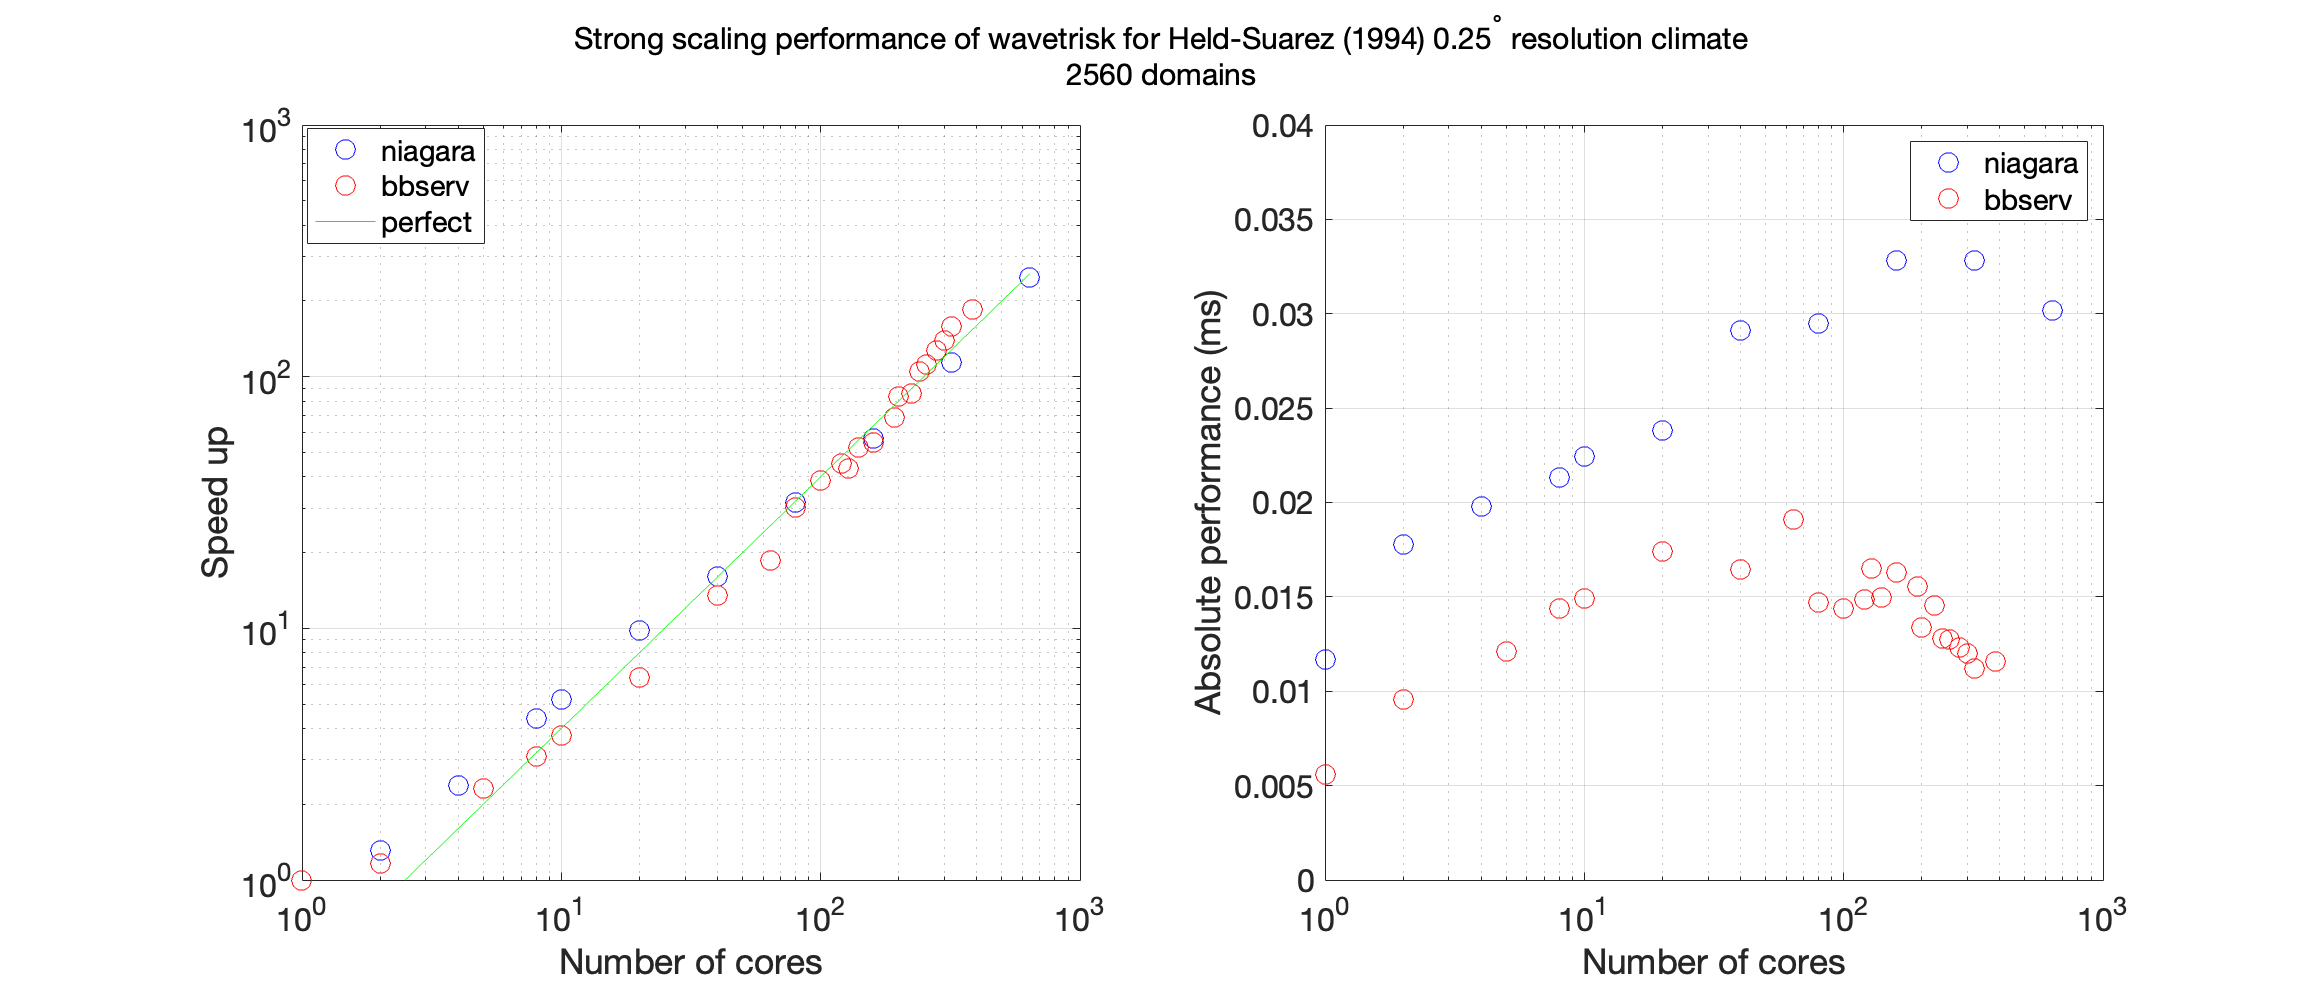
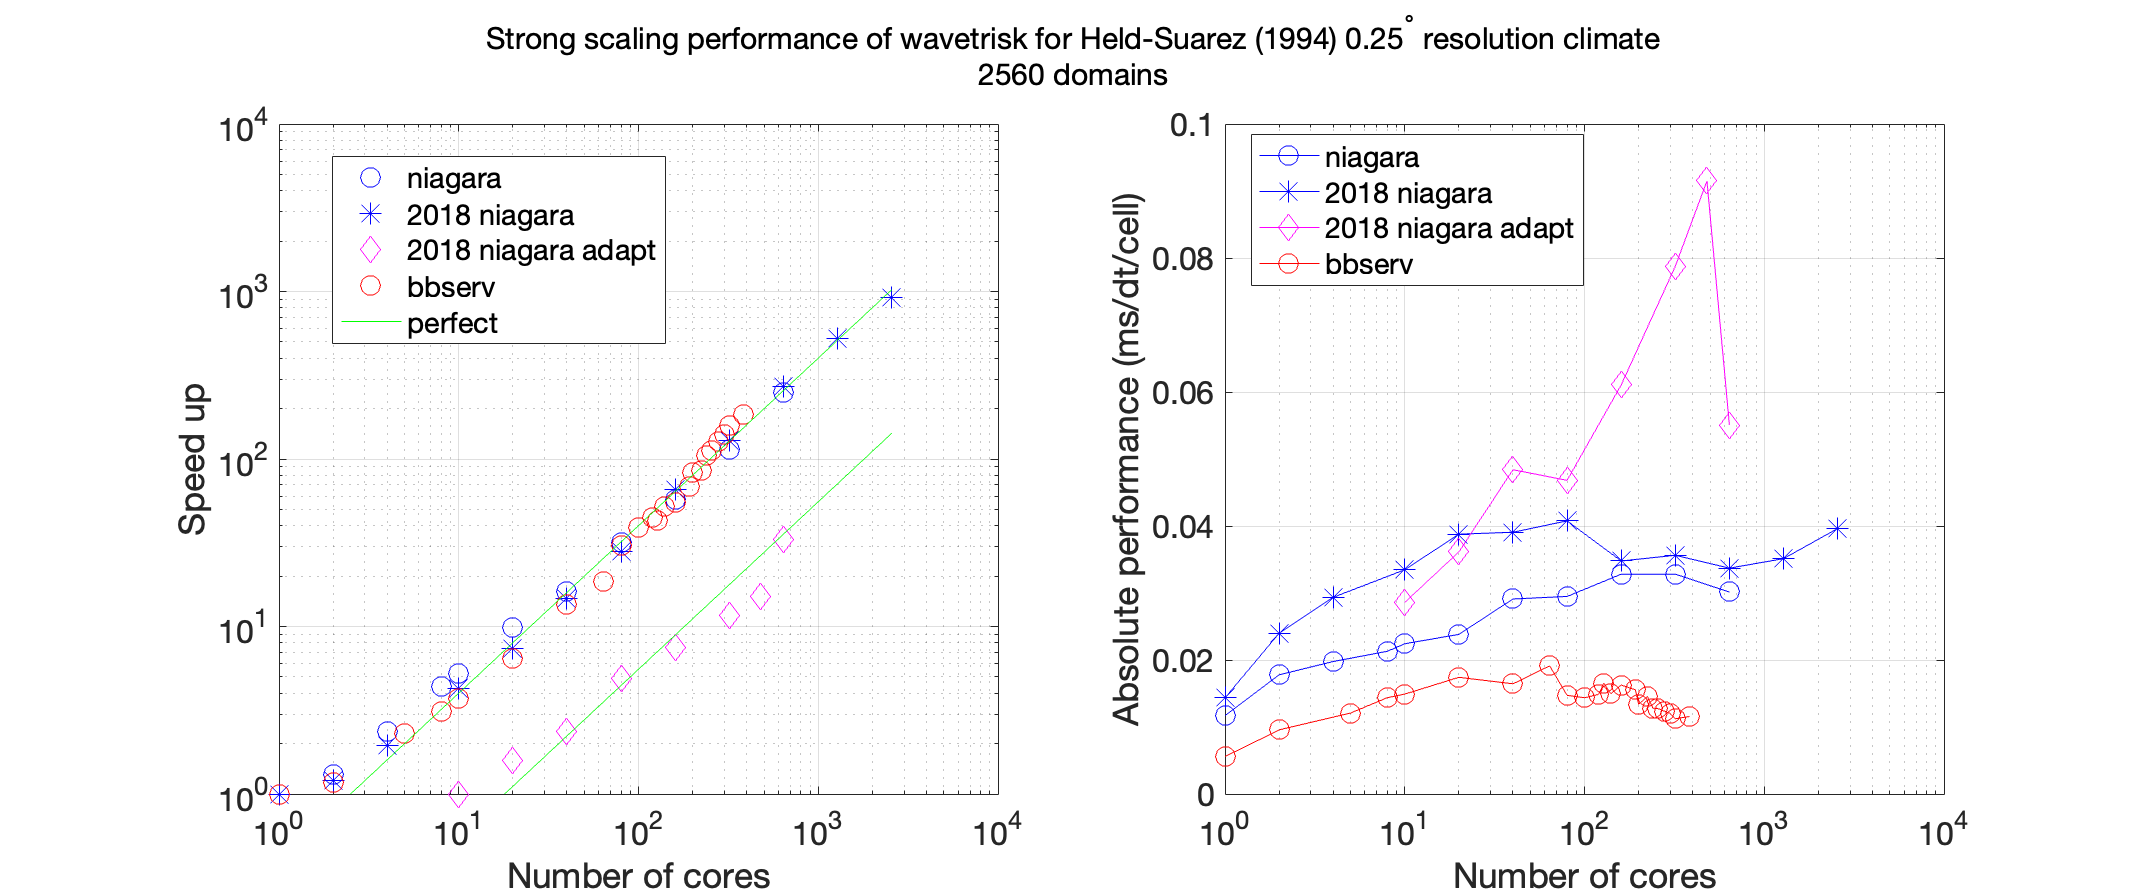
Update scaling results.

diff --git a/post/scaling/speedup.m b/post/scaling/speedup.m
@@ -1,29 +1,26 @@
 % Scaling results: J8, 32 layers, 2560 domains. No I/O, no topo.
 clear; close all;
-J      = 8;                 % scale
-n_col  = 10*4^J + 2;        % number of columns
-nz     = 32;                % number of vertical layers
+J        = 8;                 % scale
+n_col    = 10*4^J + 2;        % number of columns
+nz       = 32;                % number of vertical layers
+n_dt_bb  = 25;                % number of time steps
+n_dt_nia = 10; 
 
 % bbserv
-n_dt_bb = 25; % number of time steps
-
 cores_bb = [2 5 8 10 20 40 64 80 100 120 128 140 160 192 200 224 240 256 280 300 320 384]';
 cpu_bb   = [2509.5 1267.3 942.4 781.6 456.5 215.6 156.6 96.5 75.3 65.0 ...
     67.7 56.0 53.3 42.5 35.1 34.1 28.0 26.1 23.1 21.0 18.4 15.8]';
 
 % Linearly extrapolate cpu for one core
-cpu_bb = [cpu_bb(1) + (cpu_bb(2)-cpu_bb(1))/(cores_bb(2)-cores_bb(1)) * (1 - cores_bb(1)) ; cpu_bb];
-
+cpu_bb   = [cpu_bb(1) + (cpu_bb(2)-cpu_bb(1))/(cores_bb(2)-cores_bb(1)) * (1 - cores_bb(1)) ; cpu_bb];
 cores_bb = [1 ; cores_bb];
 
 N_bb = nz * n_col./cores_bb; % normalization for absolute performance
 
-speed_up_bb = cpu_bb(1)./cpu_bb;      % speed up
+speed_up_bb = cpu_bb(1)./cpu_bb;           % speed up
 abs_perf_bb = cpu_bb/n_dt_bb ./N_bb * 1e3; % absolute performace in ms  
 
 % niagara
-n_dt_nia  = 10; % number of time steps
-
 cores_nia = [1 2 4 8 10 20 40 80 160 320 640]';
 cpu_nia   = [2452.40 1865.0 1036.6 558.4 470.3 249.8 152.6 77.3 43.0 21.5 9.88]';
 
@@ -32,36 +29,70 @@ N_nia = nz * n_col./cores_nia; % absolute performance measure
 speed_up_nia = cpu_nia(1)./cpu_nia;
 abs_perf_nia = (cpu_nia/n_dt_nia) ./ N_nia * 1e3;
 
+% 2018 runs (non-adaptive and adaptive)
+n_col_nia_old = 10*4^8+2; % number of columns (same as new)
+nz_nia_old    = 30;       % number of layers
+n_dt_nia_old  = 10;       % number of time steps
+
+cores_nia_old = [1 2 4 10 20 40 80 160 320 640 1280 2560]';
+
+cpu_nia_old   = [2.8212E+03 2.3583E+03 1.4431E+03 6.5801E+02 3.8123E+02 1.9202E+02 1.0019E+02 ...
+    4.2737E+01 2.1890E+01 1.0355E+01 5.3954E+00 3.0428E+00]';
+N_nia_old = nz_nia_old * n_col_nia_old./cores_nia_old; 
+
+speed_up_nia_old = cpu_nia_old(1)./cpu_nia_old;
+abs_perf_nia_old = (cpu_nia_old/n_dt_nia_old) ./ N_nia_old * 1e3;
+
+n_col_nia_adapt_old = 13762560/4.5/4; % average value
+nz_nia_adapt_old    = 18;
+n_dt_nia_adapt_old  = 300;
+
+cores_nia_adapt_old = [10 20 40 80 160 320 480 640]';
+cpu_nia_adapt_old   = [11806 7458 4995.6 2416.1 1575.4 1016.3 787.01 355.24]';
+
+N_nia_adapt_old = nz_nia_adapt_old * n_col_nia_adapt_old./cores_nia_adapt_old; 
+
+speed_up_nia_adapt_old = cpu_nia_adapt_old(1)./cpu_nia_adapt_old;
+abs_perf_nia_adapt_old = (cpu_nia_adapt_old/n_dt_nia_adapt_old) ./ N_nia_adapt_old * 1e3;
+
 figure
 sgtitle({'Strong scaling performance of wavetrisk for Held-Suarez (1994) 0.25^\circ resolution climate',...
     '2560 domains'})
 subplot(1,2,1)
-loglog(cores_nia, speed_up_nia,'bo','MarkerSize',10); hold on
-loglog(cores_bb,  speed_up_bb, 'ro','MarkerSize',10); hold on
-loglog(cores_nia,cores_nia/2.5,'g-')
+loglog(cores_nia,           speed_up_nia,           'bo', 'MarkerSize', 10); hold on
+loglog(cores_nia_old,       speed_up_nia_old,       'b*', 'MarkerSize', 10) 
+loglog(cores_nia_adapt_old, speed_up_nia_adapt_old, 'md', 'MarkerSize', 10) 
+loglog(cores_bb,            speed_up_bb,            'ro', 'MarkerSize', 10) 
+
+loglog(cores_nia_old, cores_nia_old/2.5, 'g-')
+loglog(cores_nia_old, cores_nia_old/18,  'g-')
+
 %loglog(cores_nia(5:end),cores_nia(5:end)/2.6,'g-')
-legend('niagara','bbserv','perfect')
-xlabel('Number of cores'); ylabel('Speed up'); grid on;
-axis([1e0 1e3 1e0 1e3])
+legend('niagara','2018 niagara','2018 niagara adapt', 'bbserv','perfect')
+xlabel('Number of cores'); ylabel('Speed up'); grid on; 
+axis([1e0 1e4 1e0 1e4])
 set(gca,'fontsize',16)
 
 subplot(1,2,2)
-semilogx(cores_nia, abs_perf_nia,'bo','MarkerSize',10); hold on
-semilogx(cores_bb,  abs_perf_bb, 'ro','MarkerSize',10);
-legend('niagara','bbserv')
-xlabel('Number of cores'); ylabel('Absolute performance (ms)'); grid on;
-axis([1e0 1e3 0 0.04])
+semilogx(cores_nia,           abs_perf_nia,           'bo-', 'MarkerSize', 10); hold on
+semilogx(cores_nia_old,       abs_perf_nia_old,       'b*-', 'MarkerSize', 10) 
+semilogx(cores_nia_adapt_old, abs_perf_nia_adapt_old, 'md-', 'MarkerSize', 10)
+semilogx(cores_bb,            abs_perf_bb,            'ro-', 'MarkerSize', 10)
+legend('niagara','2018 niagara','2018 niagara adapt', 'bbserv')
+xlabel('Number of cores'); ylabel('Absolute performance (ms/dt/cell)'); grid on;
+axis([1e0 1e4 0 0.1])
 set(gca,'fontsize',16)
 
-%% 640 domains (bbserv only)
+%% 640 domains 
 J      = 8;                 % scale
 n_col  = 10*4^J + 2;        % number of columns
 nz     = 32;                % number of vertical layers
+n_dt_bb  = 25;              % number of time steps
+n_dt_nia = 10;
 
-n_dt_bb = 25; % number of time steps
+% bbserv
 cores_bb = [2 5 8 10 20 40 64 80 100 120 128 140 160 192 200 224 240 256 280 300 320 384]';
-
-cpu_bb = [1032.4 440.6 291.9 233.4 119.4 57.6 41.4 30.4 27.6 22.4 19.4 19.0 15.7 15.3 15.2 ...
+cpu_bb   = [1032.4 440.6 291.9 233.4 119.4 57.6 41.4 30.4 27.6 22.4 19.4 19.0 15.7 15.3 15.2 ...
      12.5 12.3 12.4 11.9 11.8 9.12 8.31]';
 
 % Linearly extrapolate cpu for one core
@@ -70,24 +101,110 @@ cores_bb = [1 ; cores_bb];
 
 N_bb = nz * n_col./cores_bb; % normalization for absolute performance
 
-speed_up_bb = cpu_bb(1)./cpu_bb;      % speed up
+speed_up_bb = cpu_bb(1)./cpu_bb;           % speed up
 abs_perf_bb = cpu_bb/n_dt_bb ./N_bb * 1e3; % absolute performace in ms  
+
+% niagara
+cores_nia = [1 2 4 8 10 20 40 80 160 320 640]';
+cpu_nia   = [1136.5 615.6 307.6 158.8 128.3 65.7 43.8 24.0 12.9 7.49 4.06]';
+
+N_nia = nz * n_col./cores_nia; % normalization for absolute performance
+
+speed_up_nia = cpu_nia(1)./cpu_nia;            % speed up
+abs_perf_nia = cpu_nia/n_dt_nia ./N_nia * 1e3; % absolute performace in ms  
 
 figure
 sgtitle({'Strong scaling performance of wavetrisk for Held-Suarez (1994) 0.25^\circ resolution climate',...
     '640 domains'})
 subplot(1,2,1)
-loglog(cores_bb,  speed_up_bb, 'ro','MarkerSize',10); hold on
-loglog(cores_bb,cores_bb/1.9,'g-')
-legend('bbserv','perfect')
-xlabel('Number of cores'); ylabel('Speed up'); grid on;
+loglog(cores_nia, speed_up_nia, 'bo', 'MarkerSize', 10); hold on
+loglog(cores_bb,  speed_up_bb,  'ro', 'MarkerSize', 10); 
+loglog(cores_nia, cores_nia/1.1, 'g-')
+loglog(cores_bb,  cores_bb/1.9,  'g-')
+legend('niagara','bbserv','perfect')
+xlabel('Number of cores'); ylabel('Speed up'); grid on;axis('equal')
 axis([1e0 1e3 1e0 1e3])
 set(gca,'fontsize',16)
 
 subplot(1,2,2)
-semilogx(cores_bb,  abs_perf_bb, 'ro','MarkerSize',10);
-xlabel('Number of cores'); ylabel('Absolute performance (ms)'); grid on;
-axis([1e0 1e3 0 0.01])
+semilogx(cores_nia, abs_perf_nia, 'bo', 'MarkerSize', 10); hold on
+semilogx(cores_bb,  abs_perf_bb,  'ro', 'MarkerSize', 10);
+legend('niagara','bbserv')
+xlabel('Number of cores'); ylabel('Absolute performance (ms/dt/cell)'); grid on; 
+axis([1e0 1e3 0 0.012])
 set(gca,'fontsize',16)
 
+%% Results from other codes (varies from 5e-5 for 8 cores to 1.6e-1 for 32768 cores)
+clear; clc
+day  = 24*60^2;    % day in seconds
 
+% Lupo etal (2017)
+clear; clc
+day  = 24*60^2;    % day in seconds
+dt   = 30;         % time step in seconds
+N_dt = 5*day/dt;   % number of time steps in the simulation
+N    = 321*640*32; % number of grid points
+
+abs_perf = @(N, N_dt, cpu, cores) (cpu/N_dt)/N * cores * 1e3; % performance measure in ms
+
+fprintf('\n%s\n\n','Absolute performance from other codes [ms/dt/cell]')
+fprintf('%s %.2e %s\n','Lupo et al (2017):              ', abs_perf (N, N_dt, 42174, 256), '(256 cores)')
+fprintf('%s %.2e %s\n','                                ', abs_perf (N, N_dt, 30337, 128), '(128 cores)')
+fprintf('%s %.2e %s\n','                                ', abs_perf (N, N_dt, 26695,  64), '( 64 cores)')
+fprintf('%s %.2e %s\n','                                ', abs_perf (N, N_dt, 22029,  32), '( 32 cores)')
+fprintf('%s %.2e %s',  '                                ', abs_perf (N, N_dt, 28959,  16), '( 16 cores)')
+
+% Zuo et al (2007) benchmark 3
+N_dt  = 200;
+N     = 2048*256*30;
+cpu   = 20;
+cores = 8;
+fprintf ('\n\n%s %.2e %s','Zuo et al (2007) benchmark 3:   ',abs_perf(N, N_dt, cpu,  cores), '(8 cores)')
+
+% Wang et al (2005)
+N     = 1024^2*20;
+cpu   = 327;
+cores = 64;
+N_dt  = 6000;
+fprintf ('\n\n%s %.2e %s\n','Wong et al (2005):              ',abs_perf(N, N_dt, cpu,  cores), '(64 cores)')
+
+% Heinzeller
+NZ = 41;
+
+% 2 km
+cpu = 3585;
+N = 147456002*NZ;
+cores = 2048*16;
+dt = 5;
+N_dt = 10*60/dt;
+fprintf ('\n%s %.2e %s','Heinzeller:                     ',abs_perf(N, N_dt, cpu,  cores), '(32768 cores,  2 km)')
+
+% 120 km
+N = 40962*NZ;
+dt = 150;
+N_dt = day/dt;
+cores = 160;
+cpu   = 236;
+fprintf ('\n%s %.2e %s\n','                                ',abs_perf(N, N_dt, cpu,  cores), '(160 cores, 120 km)')
+
+% Jablonowski and Williamson (2006)
+core = 32;         % number of cores
+NZ   = 26;         % number of vertical levels
+
+% CAM3 Euler
+cpu = 483;
+dt  = 300; 
+N   = 256*512*NZ;
+fprintf ('\n%s %.2e %s\n','Jablonowski & Williamson (2006):', abs_perf(N, day/dt, cpu,  cores), '(32 cores, CAM3 Euler)')
+
+% CAM3 finite volume
+cpu = 625;
+dt  = 90;
+N   = 361*576*NZ;
+fprintf ('%s %.2e %s\n','                                ', abs_perf(N, day/dt, cpu,  cores), '(32 cores, CAM3 FV)')
+
+% GME 
+cpu = 325;
+dt  = 200;
+N   = 163842*NZ; 
+fprintf ('%s %.2e %s\n\n','                                ', abs_perf(N, day/dt, cpu,  cores), '(32 cores, GME)')
